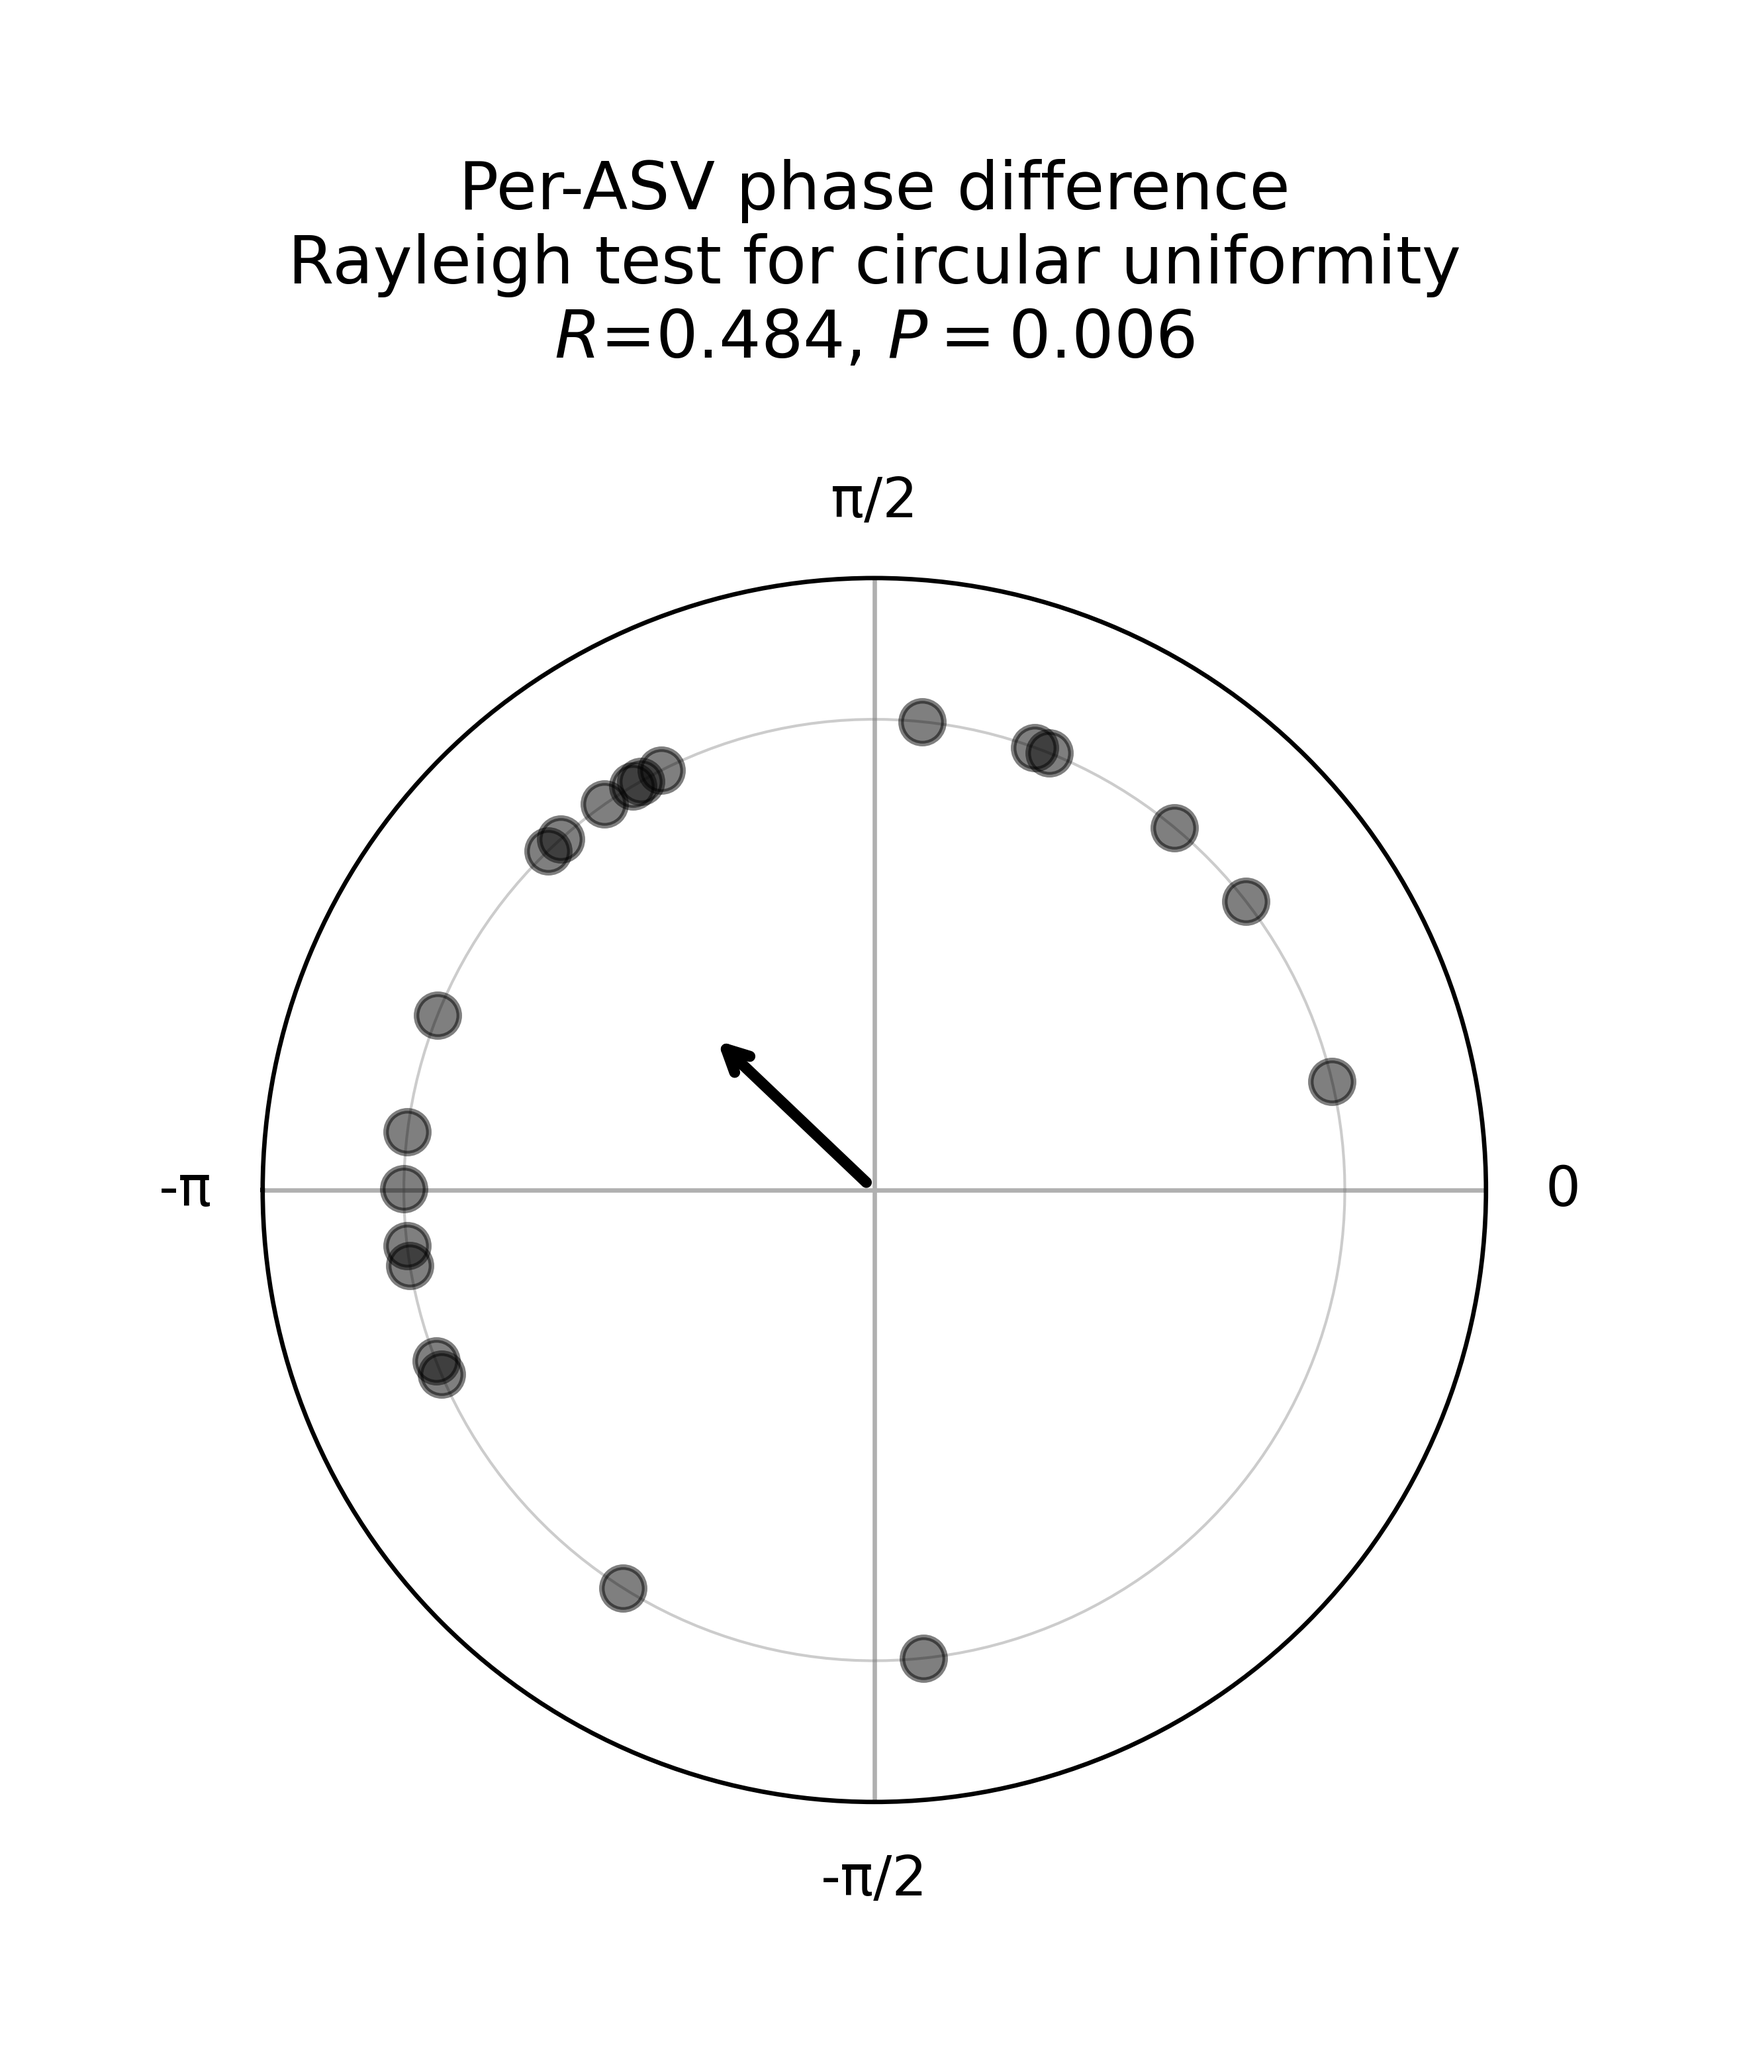
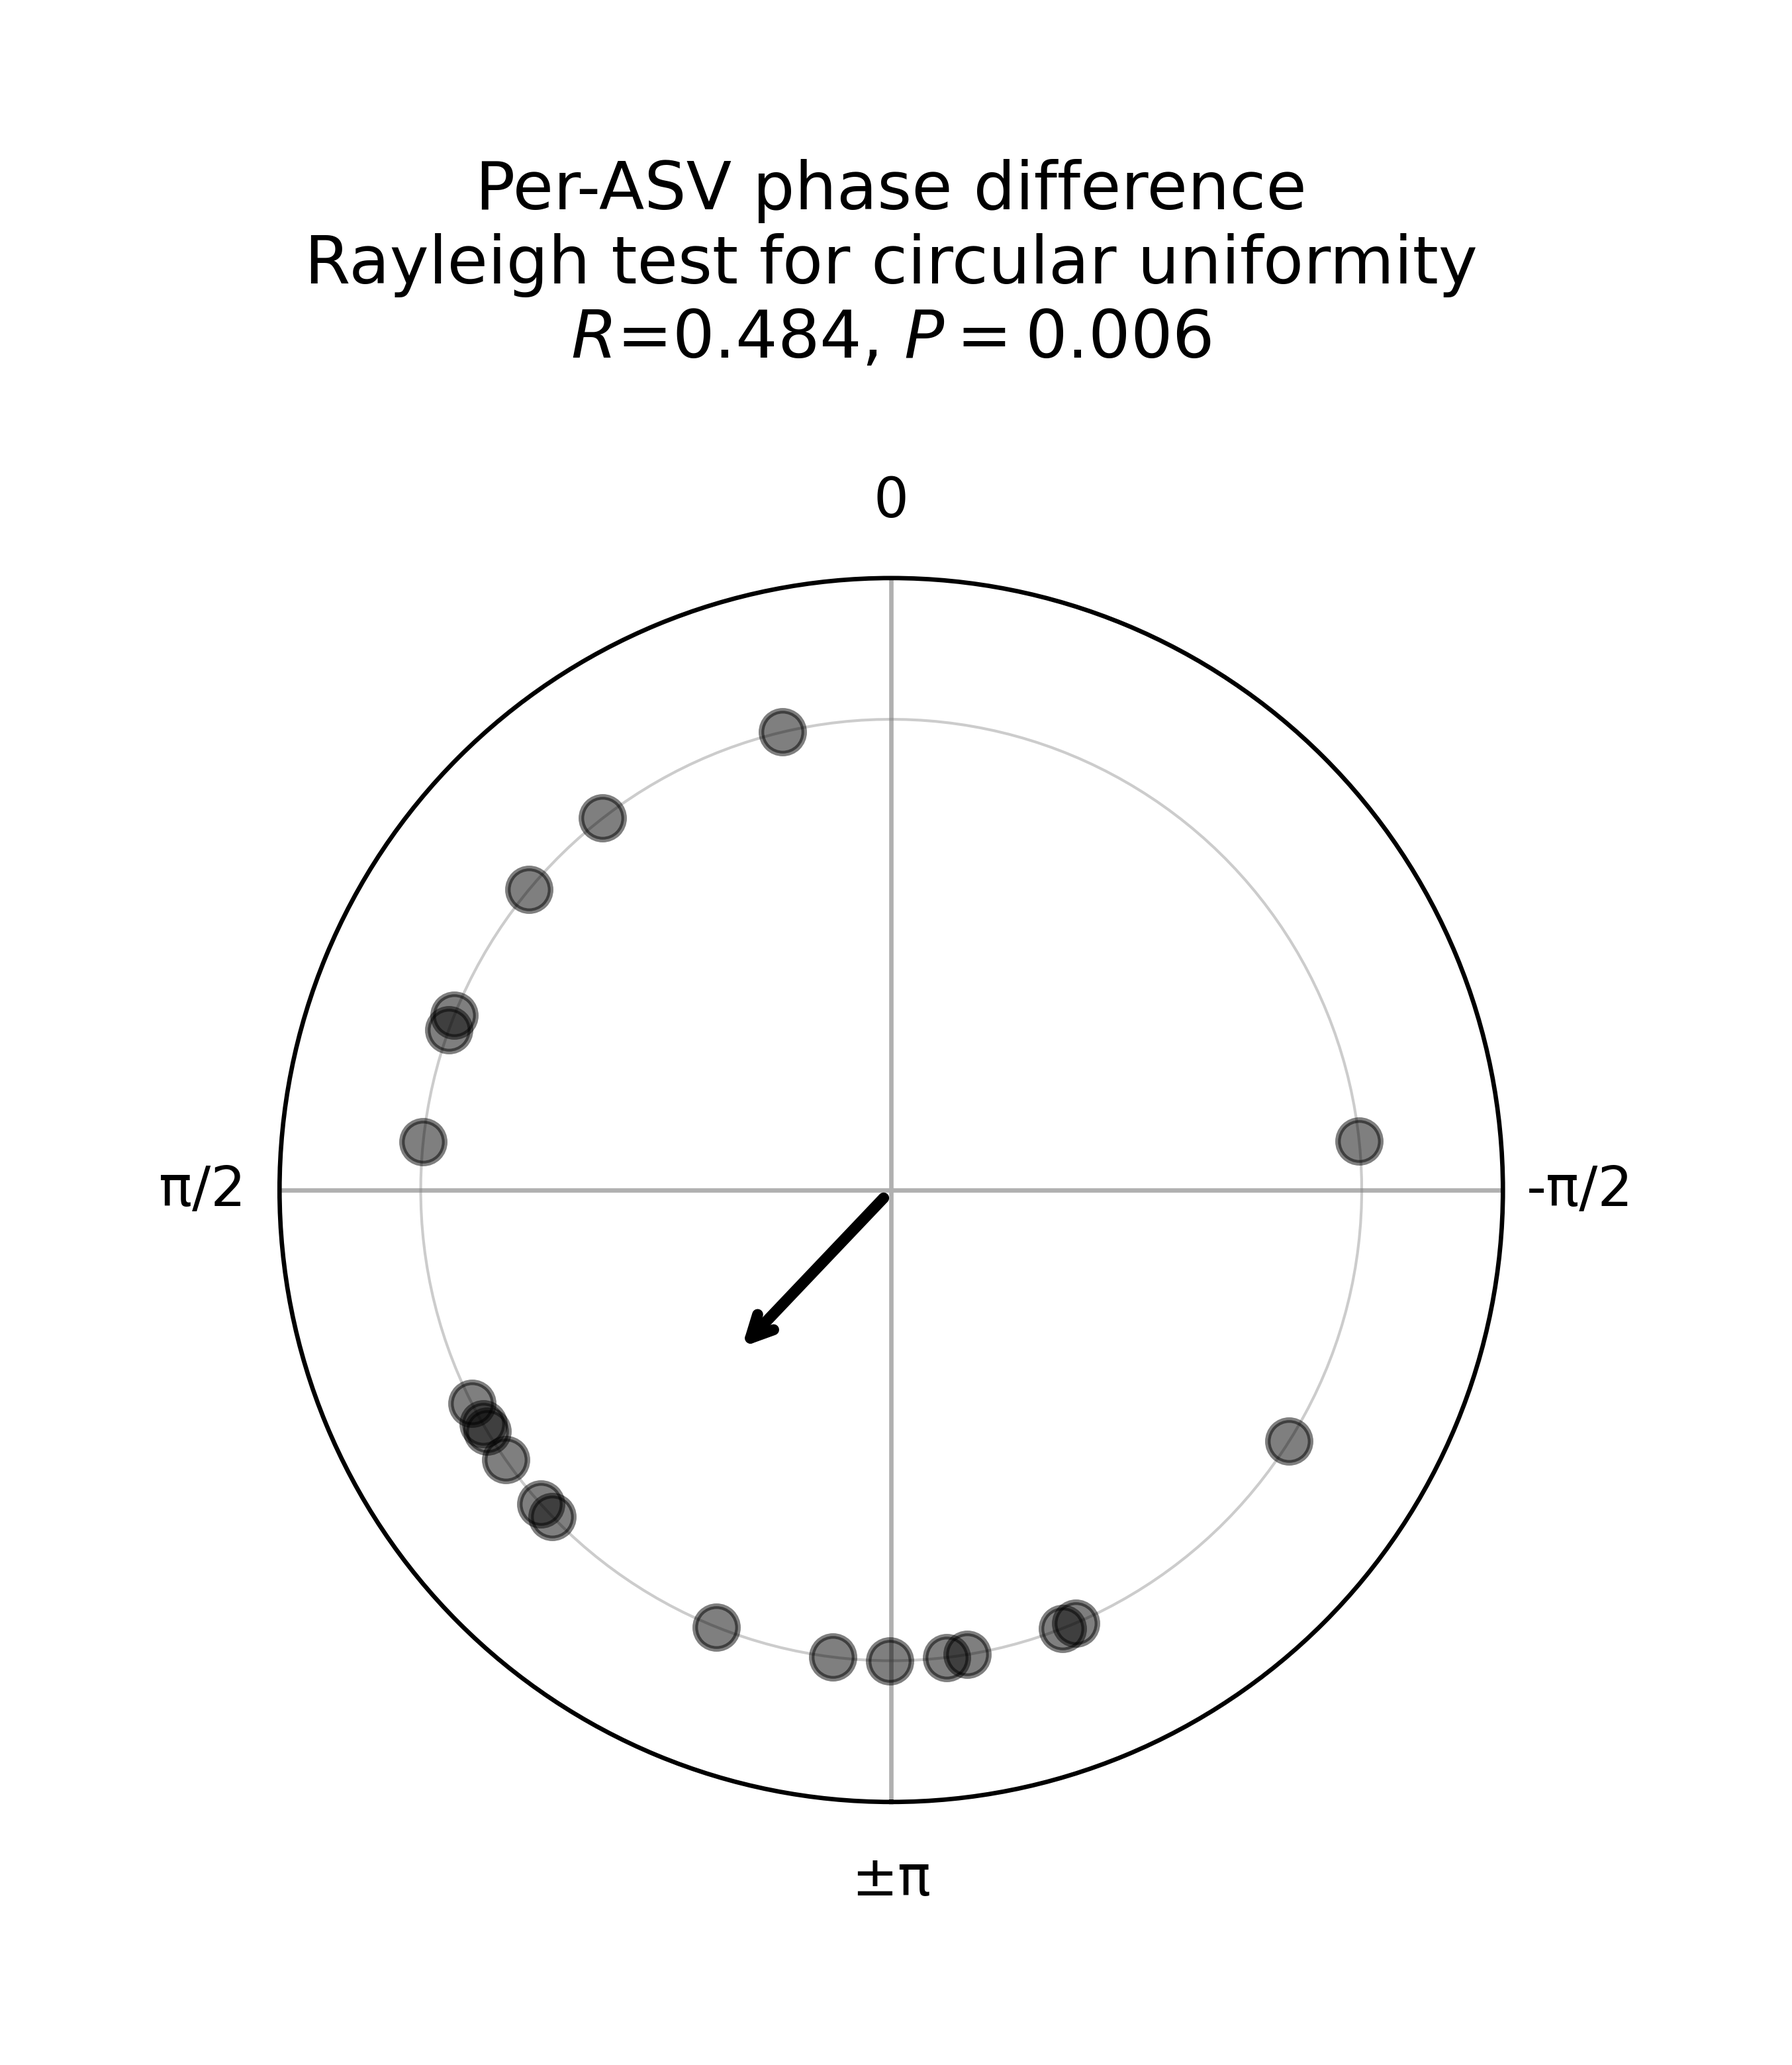
minor fig edits

diff --git a/scripts/plot_afd_per_asv.py b/scripts/plot_afd_per_asv.py
@@ -1,0 +1,84 @@
+import config
+import sys
+import copy
+import numpy
+import utils
+import random
+import matplotlib.pyplot as plt
+from matplotlib import cm, colors
+from scipy import stats
+from scipy.optimize import leastsq, curve_fit, minimize, brentq
+from scipy.special import loggamma, gammaln, polygamma, digamma
+
+
+import pickle
+
+metadata_dict = utils.build_metadata_dict()
+taxonomy_dict = utils.build_taxonomy_dict()
+param_otu_mle_dict_path = config.data_directory + 'param_otu_mle_dict.pickle'
+
+s_by_s, otu_labels, samples = utils.load_count_data()
+
+
+#clr_s_by_s_dna, clr_s_by_s_rna, occupancy_idx, otu_labels_subset, n_reads_dna_occupancy, n_reads_rna_occupancy = utils.clr_transform(s_by_s, otu_labels, samples)
+
+# get days
+sample_type = numpy.asarray([metadata_dict[s]['sample_type'] for s in samples])
+days = numpy.asarray([metadata_dict[s]['day'] for s in samples[(sample_type=='RNA')]])
+
+param_dict =  pickle.load(open(param_otu_mle_dict_path, 'rb'))
+
+days = param_dict['data']['days']['RNA']
+afd_rna = param_dict['data']['clr_afd']['RNA']
+afd_dna = param_dict['data']['clr_afd']['DNA']
+otu_labels = param_dict['otu_labels']
+
+fig = plt.figure(figsize = (20, 20))
+fig.subplots_adjust(bottom= 0.15)
+
+idx_all = list(range(len(afd_dna)))
+chunk_all = [idx_all[x:x+5] for x in range(0, len(idx_all), 5)]
+
+asv_count = 0
+for chunk_idx, chunk in enumerate(chunk_all):
+
+    for c_idx, c in enumerate(chunk):
+
+        ax = plt.subplot2grid((len(chunk_all), len(chunk_all[0])), (chunk_idx, c_idx))
+
+        afd_rna_c = afd_rna[c]
+        afd_dna_c = afd_dna[c]
+
+        rescaled_rna_c = (afd_rna_c - numpy.mean(afd_rna_c)) / numpy.std(afd_rna_c)
+        rescaled_dna_c = (afd_dna_c - numpy.mean(afd_dna_c)) / numpy.std(afd_dna_c)
+
+        #cv_rna_c = numpy.std(afd_rna_c)/numpy.median(numpy.abs(afd_rna_c - numpy.median(afd_rna_c)))
+        #cv_dna_c = numpy.std(afd_dna_c)/numpy.median(numpy.abs(afd_dna_c - numpy.median(afd_dna_c)))
+
+        x_rna, S_rna = utils.empirical_survival(rescaled_rna_c)
+        x_dna, S_dna = utils.empirical_survival(rescaled_dna_c)
+       
+
+        ax.plot(x_rna, S_rna, ls='-', lw=3, c=utils.dna_rna_color_dict['RNA'], zorder=1, label='rRNA')
+        ax.plot(x_dna, S_dna, ls='-', lw=3, c=utils.dna_rna_color_dict['DNA'], zorder=1, label='rDNA')
+
+        #ax.plot(days_range, model_prediction, ls='-', lw=3, c=utils.dna_rna_color_dict[data_type], zorder=1, label=r'$\left\langle \mathrm{ln} \, x_{i}(t) \right\rangle$')
+
+        #ax.scatter(days_c, afd_c, s=8, alpha=1, c=utils.dna_rna_color_dict[data_type], zorder=2)
+        #ax.axhline(y=0, ls=':', lw=2, zorder=0, c='k')#')
+        #ax.set_xlabel("Time (days)", fontsize=10)
+        #ax.set_ylabel("CLR-transformed abundance, " + utils.rescaled_label_clr_dict[data_type], fontsize=10)
+        #ax.set_title('ASV %d (%s)' % (asv_count+1, taxonomy_dict[param_dict['otu_labels'][asv_count]]['family']), fontsize=11)
+        
+       
+        #if (chunk_idx == 0) and (c_idx == 0):
+        #    ax.legend(loc='upper right', fontsize=6)
+
+        #asv_count += 1
+
+
+
+fig.subplots_adjust(hspace=0.35, wspace=0.40)
+fig_name = "%safd_per_asv.png" % (config.analysis_directory)
+fig.savefig(fig_name, format='png', bbox_inches = "tight", pad_inches = 0.4, dpi = 600)
+plt.close()

diff --git a/scripts/plot_fig_3.py b/scripts/plot_fig_3.py
@@ -263,19 +263,23 @@ ax.plot(theta, numpy.ones(200), color='gray', lw=0.5, alpha=0.4)
 ax.set_ylim(0, 1.3)
 ax.set_yticks([])
 
-# full circle — this is the key part
 # show full circle
 ax.set_thetalim(-numpy.pi, numpy.pi)
 # 0 at right
-ax.set_theta_zero_location('E')
+#ax.set_theta_zero_location('E')
+ax.set_theta_zero_location('N')  
+ax.set_theta_direction(-1) 
 # counterclockwise
 ax.set_theta_direction(1)
 
 #ax.set_xticks([-numpy.pi, -numpy.pi/2, 0, numpy.pi/2, numpy.pi])
 #ax.set_xticklabels(['-π', '-π/2', '0', 'π/2', 'π'])
 
+#ax.set_xticks([-numpy.pi, -numpy.pi/2, 0, numpy.pi/2])
+#ax.set_xticklabels(['±π', '-π/2', '0', 'π/2'])
+
 ax.set_xticks([-numpy.pi, -numpy.pi/2, 0, numpy.pi/2])
-ax.set_xticklabels(['-π', '-π/2', '0', 'π/2'])
+ax.set_xticklabels(['±π', '-π/2', '0', 'π/2'])
 
 ax.set_title(f'Per-ASV phase difference\nRayleigh test for circular uniformity\n' + r'$R$=' + str(round(R, 3)) +  ', ' + r'$P=$' + str(round(p, 4)), pad=40, fontsize=12)
 

diff --git a/scripts/utils.py b/scripts/utils.py
@@ -94,6 +94,13 @@ family_trophic_status = {
 
 
 
+def empirical_survival(sample):
+    x = numpy.sort(numpy.asarray(sample))
+    n = len(x)
+    S = 1 - numpy.arange(1, n + 1) / n
+    return x, S
+
+
 def get_p_value_latex_label_dict(p_value):
 
     if p_value <= 0.05:
